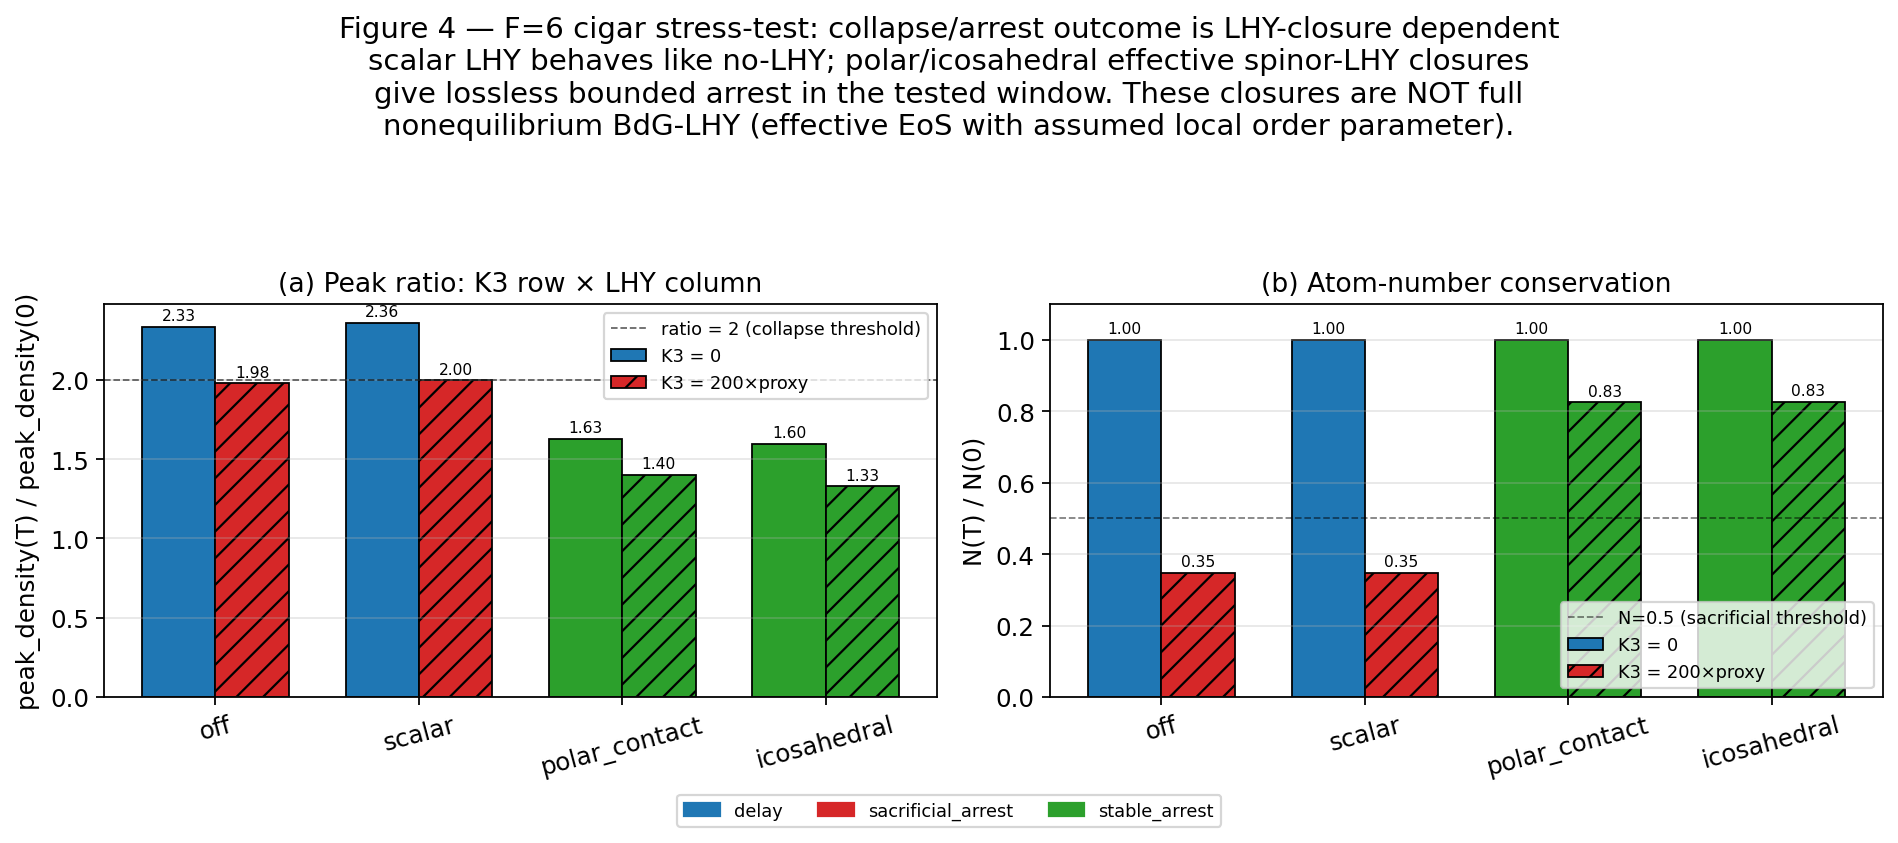
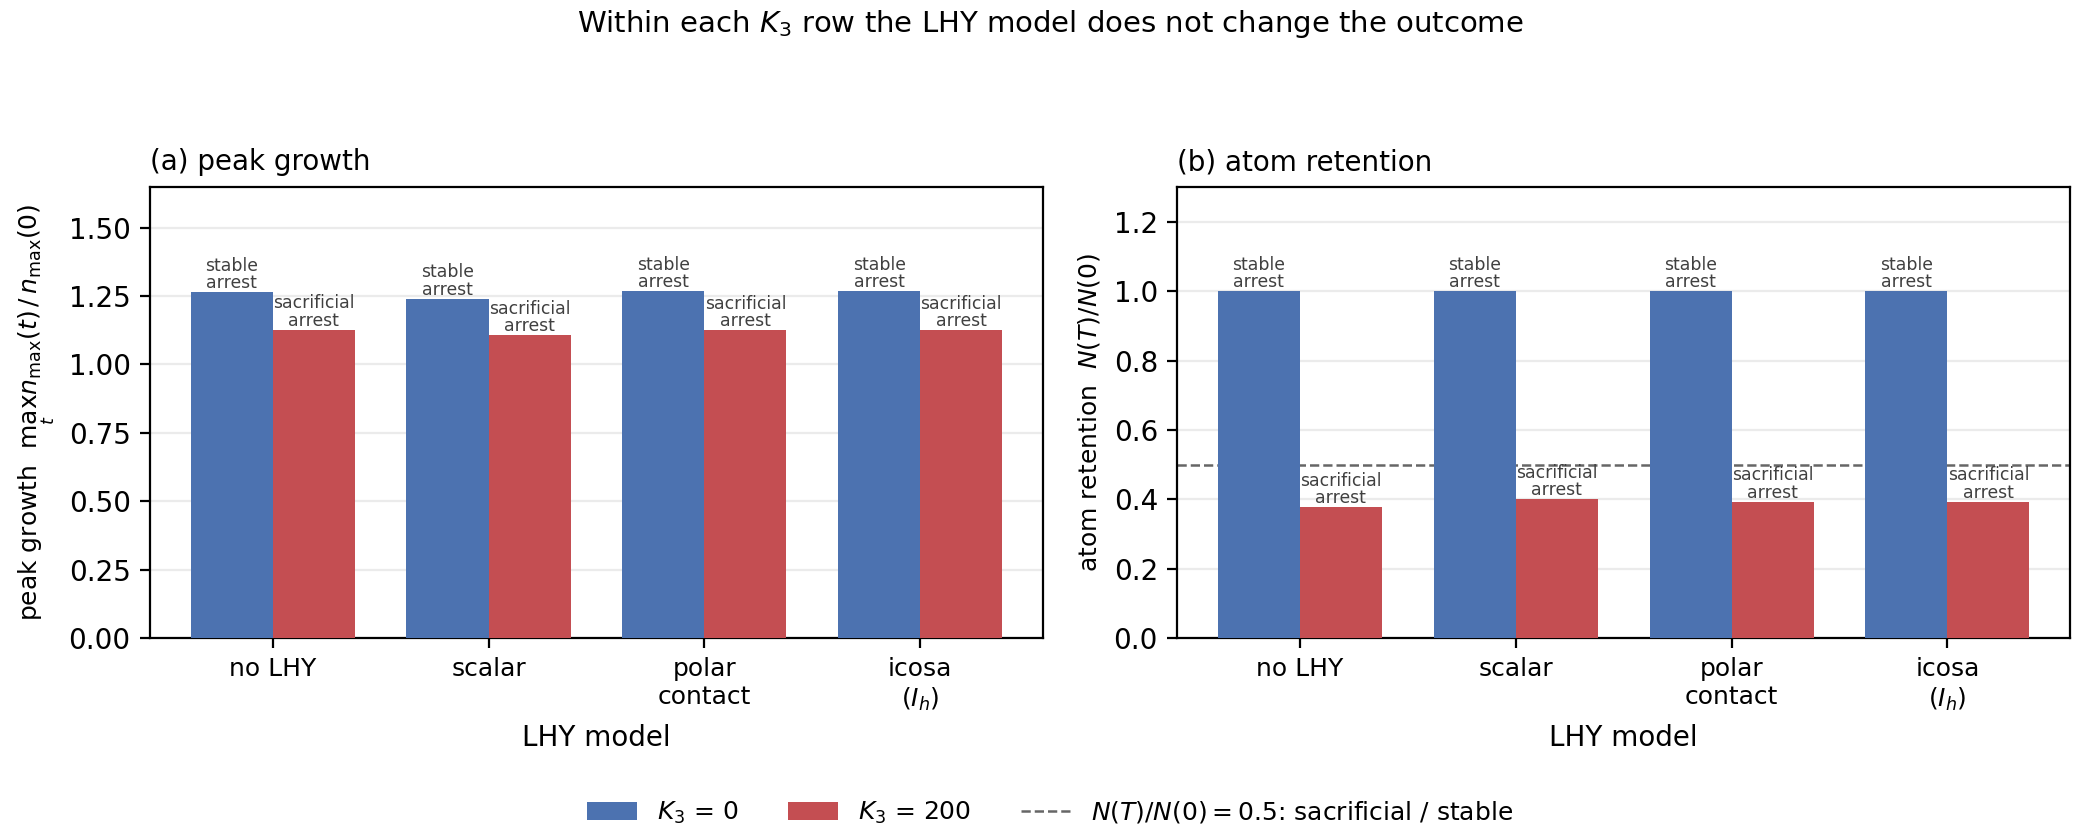
figs(validation): redraw fig4 from the re-measured factorial — and commit its generator (#199)
The panel now shows the opposite of what it used to. It read as "collapse arrest
is LHY-closure dependent", because the two spinor closed forms arrested where
`off` and `scalar` did not. That separation was the 30000x LHY overstrength of
#158. With all eight cells re-run at one revision (#197) the four LHY settings
collapse onto ONE classification per K3 row:

  K3=0    off / scalar / polar_contact / icosa   all stable_arrest
  K3=200  off / scalar / polar_contact / icosa   all sacrificial_arrest

So the honest reading is that within each K3 row the LHY model does not change
the outcome. The classification is printed on each bar so that collapse is
visible in the figure rather than asserted in the caption.

There was no committed generator for the original PNG — this is a rewrite from
the spec in `four_figure_spec_2026_05_26.md` ((a) peak growth ratio, (b) atom
retention over {K3=0,200} x {off,scalar,polar,icosa}), which is also why the
figure is reproducible now. Spec updated to point at both the regenerator and
the plotter.

Layout notes, since both cost a redraw: the K3 legend and the N(T)/N(0)=0.5
boundary label both had to leave the axes. Every in-axes position collided with
either the K3=0 bars, which reach 1.0, or the on-bar classification text — and
those labels are the whole point, so they win. Legend is shared and below; the
0.5 line is a legend entry rather than an annotation.

Assisted-by: Claude Code (model: claude-opus-5)

diff --git a/scripts/eu_k3_lhy_factorial_figure.py b/scripts/eu_k3_lhy_factorial_figure.py
@@ -1,0 +1,99 @@
+#!/usr/bin/env python3
+"""K3 × LHY 2×4 factorial — peak growth ratio and atom retention.
+
+    python scripts/eu_k3_lhy_factorial_figure.py \
+        runs/eu_k3_lhy_control/factorial_2x4.json [out.png]
+
+Panels follow `docs/manuscript/four_figure_spec_2026_05_26.md`:
+  (a) peak growth ratio  max(peak)/peak(0)
+  (b) atom retention     N(T)/N(0)
+both over {K3=0, K3=200} × {off, scalar, polar_contact, icosa}.
+
+The point of the figure CHANGED when the factorial was re-measured (PR #197).
+It used to show the two spinor closed forms arresting where `off` and `scalar`
+did not, which read as "arrest is closure-dependent". That separation was the
+30000x LHY overstrength of #158. With all eight cells re-run at one revision the
+four LHY settings collapse onto ONE classification per K3 row, so the honest
+reading is the opposite: within each K3 row the LHY model does not change the
+outcome. The classification is printed on each bar so that collapse is visible
+rather than asserted.
+
+There was no committed generator for the original PNG — this is a rewrite, which
+is also why the figure is reproducible now.
+"""
+import json
+import sys
+
+import matplotlib
+
+matplotlib.use("Agg")
+import matplotlib.pyplot as plt
+import numpy as np
+
+src = sys.argv[1] if len(sys.argv) > 1 else "runs/eu_k3_lhy_control/factorial_2x4.json"
+out = sys.argv[2] if len(sys.argv) > 2 else "docs/validation/figures/fig4_lhy_model_interference.png"
+
+rows = json.load(open(src))["rows"]
+MODELS = ["off", "scalar", "polar_contact", "icosa"]
+K3S = [0, 200]
+LBL = {"off": "no LHY", "scalar": "scalar", "polar_contact": "polar\ncontact",
+       "icosa": "icosa\n($I_h$)"}
+# Categorical, colour-blind-safe; `off` deliberately grey — it is the control.
+COL = {0: "#4C72B0", 200: "#C44E52"}
+
+def cell(k3, model):
+    for r in rows:
+        if r["K3"] == k3 and r["LHY"] == model:
+            return r
+    raise KeyError(f"missing cell K3={k3} LHY={model}")
+
+fig, axes = plt.subplots(1, 2, figsize=(10.5, 4.2))
+x = np.arange(len(MODELS))
+w = 0.38
+
+for ax, key, ylab, title in (
+    (axes[0], "ratio", r"peak growth  $\max_t n_{\max}(t)\,/\,n_{\max}(0)$",
+     "(a) peak growth"),
+    (axes[1], "N_final_ratio", r"atom retention  $N(T)/N(0)$",
+     "(b) atom retention"),
+):
+    for i, k3 in enumerate(K3S):
+        vals = [cell(k3, m)[key] for m in MODELS]
+        pos = x + (i - 0.5) * w
+        ax.bar(pos, vals, w, color=COL[k3], label=f"$K_3$ = {k3}", zorder=3)
+        # The classification is the claim; put it on the bar rather than in prose.
+        for p, v, m in zip(pos, vals, MODELS):
+            cls = cell(k3, m)["classification"].replace("_", "\n")
+            ax.text(p, v, cls, ha="center", va="bottom", fontsize=6.2,
+                    color="0.25", linespacing=0.95)
+    ax.set_xticks(x)
+    ax.set_xticklabels([LBL[m] for m in MODELS], fontsize=9)
+    ax.set_xlabel("LHY model")
+    ax.set_ylabel(ylab, fontsize=9)
+    ax.set_title(title, fontsize=10, loc="left")
+    ax.grid(axis="y", alpha=0.25, zorder=0)
+    ax.set_axisbelow(True)
+    ax.margins(y=0.30)   # headroom for the on-bar classification labels
+
+# The 0.5 line goes in the LEGEND, not on the canvas. Every in-axes position
+# for its label collided with either the K3=0 bars (which reach 1.0) or the
+# on-bar classification text, and those labels are the point of the figure.
+line = axes[1].axhline(0.5, color="0.4", ls="--", lw=0.9, zorder=2)
+line.set_label(r"$N(T)/N(0)=0.5$: sacrificial / stable")
+
+# One shared legend under the panels — inside either axes it lands on the on-bar
+# classification labels.
+h0, l0 = axes[0].get_legend_handles_labels()
+fig.legend(h0 + [line], l0 + [line.get_label()], frameon=False, fontsize=9,
+           ncol=3, loc="lower center", bbox_to_anchor=(0.5, -0.01))
+
+fig.suptitle("Within each $K_3$ row the LHY model does not change the outcome",
+             fontsize=10.5, y=0.99)
+fig.tight_layout(rect=(0, 0.06, 1, 0.94))
+fig.savefig(out, dpi=200)
+print(f"wrote {out}")
+for k3 in K3S:
+    for m in MODELS:
+        c = cell(k3, m)
+        print(f"  K3={k3:<4} {m:<14} {c['classification']:<19} "
+              f"ratio={c['ratio']:.4f}  N(T)/N(0)={c['N_final_ratio']:.4f}")

diff --git a/docs/manuscript/four_figure_spec_2026_05_26.md b/docs/manuscript/four_figure_spec_2026_05_26.md
@@ -389,6 +389,10 @@ Fig 1 (d)    :  runs/matsui_baseline/matsui_5ms_n64_density_slice.json
 Fig 1 inset  :  runs/matsui_baseline/{matsui_40ms_lossy_medium,strong}.yaml
                   → analysis to extract N(t)/N(0) ratio for inset
 Fig 2 (a, b) :  runs/eu_k3_lhy_control/factorial_2x4.json
+                  regen: scripts/eu_k3_lhy_factorial_regen.jl (8 cells, one revision)
+                  plot:  scripts/eu_k3_lhy_factorial_figure.py
+                  NOTE the panel now shows the OPPOSITE of the original reading:
+                  within each K3 row the LHY model does not change the outcome.
                   !! 2026-07-29: every LHY-enabled cell ran under #125 / #158 /
                   !! #174. The scalar rows had no dynamics LHY at all; the
                   !! polar/icosa rows had it 30000x too strong, which is where
